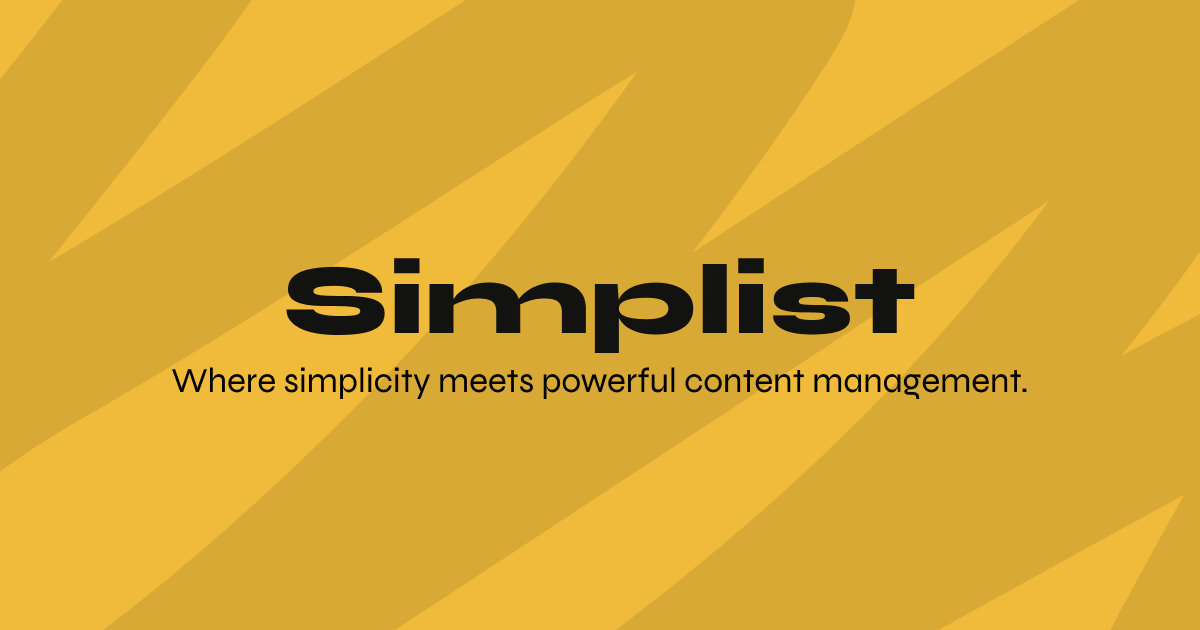
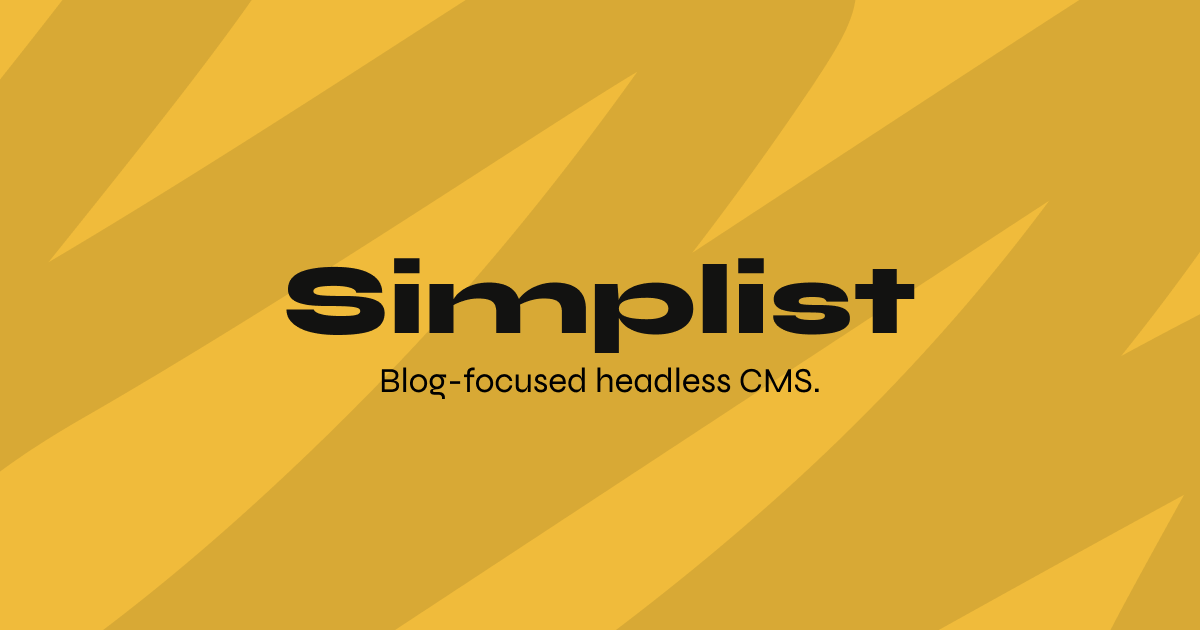
feat(branding): update tagline and align refund policy with FAQ
- Change slogan from 'Where simplicity meets powerful content management' to 'Blog-focused headless CMS' across all apps
- Update TOS refund policy to offer 14-day full refund, matching FAQ
- Replace OG and Twitter images with new branded versions
- Fix image placement in correct app directories

Changed region(s): [[0.1542, 0.573, 0.8633, 0.6333]]

diff --git a/apps/web/app/legal/terms/page.tsx b/apps/web/app/legal/terms/page.tsx
@@ -403,12 +403,12 @@ const TermsOfServicePage = () => {
 
       <h3>9.5 Refunds</h3>
       <p>
-        Except where required by law, subscription fees are non-refundable. In
-        exceptional cases (for example, extended outages caused by us or clear
-        billing errors), we may grant partial or full refunds at our discretion.
-        Refund requests must be submitted to{" "}
-        <a href="mailto:privacy@simplist.blog">privacy@simplist.blog</a> within
-        30 days of the charge.
+        If you are not satisfied with the Service, you may request a full refund
+        within 14 days of your initial purchase. Refund requests must be
+        submitted to{" "}
+        <a href="mailto:support@simplist.blog">support@simplist.blog</a>. After
+        this period, subscription fees are non-refundable except where required
+        by law.
       </p>
 
       <h3>9.6 Taxes</h3>

diff --git a/apps/app/app/layout.tsx b/apps/app/app/layout.tsx
@@ -28,7 +28,7 @@ const defaultUrl = process.env.VERCEL_URL
   ? `https://${process.env.VERCEL_URL}`
   : "http://localhost:3000";
 
-const slogan = "Where simplicity meets powerful content management";
+const slogan = "Blog-focused headless CMS";
 const description =
   "Simplist is a fast content management API that lets you publish articles in seconds and retrieve them from any app with clean, typed endpoints.";
 

diff --git a/apps/web/app/layout.tsx b/apps/web/app/layout.tsx
@@ -28,7 +28,7 @@ const defaultUrl = process.env.VERCEL_URL
   ? `https://${process.env.VERCEL_URL}`
   : "http://localhost:3000";
 
-const slogan = "Where simplicity meets powerful content management";
+const slogan = "Blog-focused headless CMS";
 
 export const metadata: Metadata = {
   metadataBase: new URL(defaultUrl),

diff --git a/apps/docs/app/layout.tsx b/apps/docs/app/layout.tsx
@@ -15,7 +15,7 @@ import { FC, PropsWithChildren } from "react";
 
 const inter = Inter({ subsets: ["latin"] });
 
-const slogan = "Where simplicity meets powerful content management";
+const slogan = "Blog-focused headless CMS";
 const defaultUrl =
   process.env.NEXT_PUBLIC_BASE_URL || "https://docs.simplist.blog";
 
